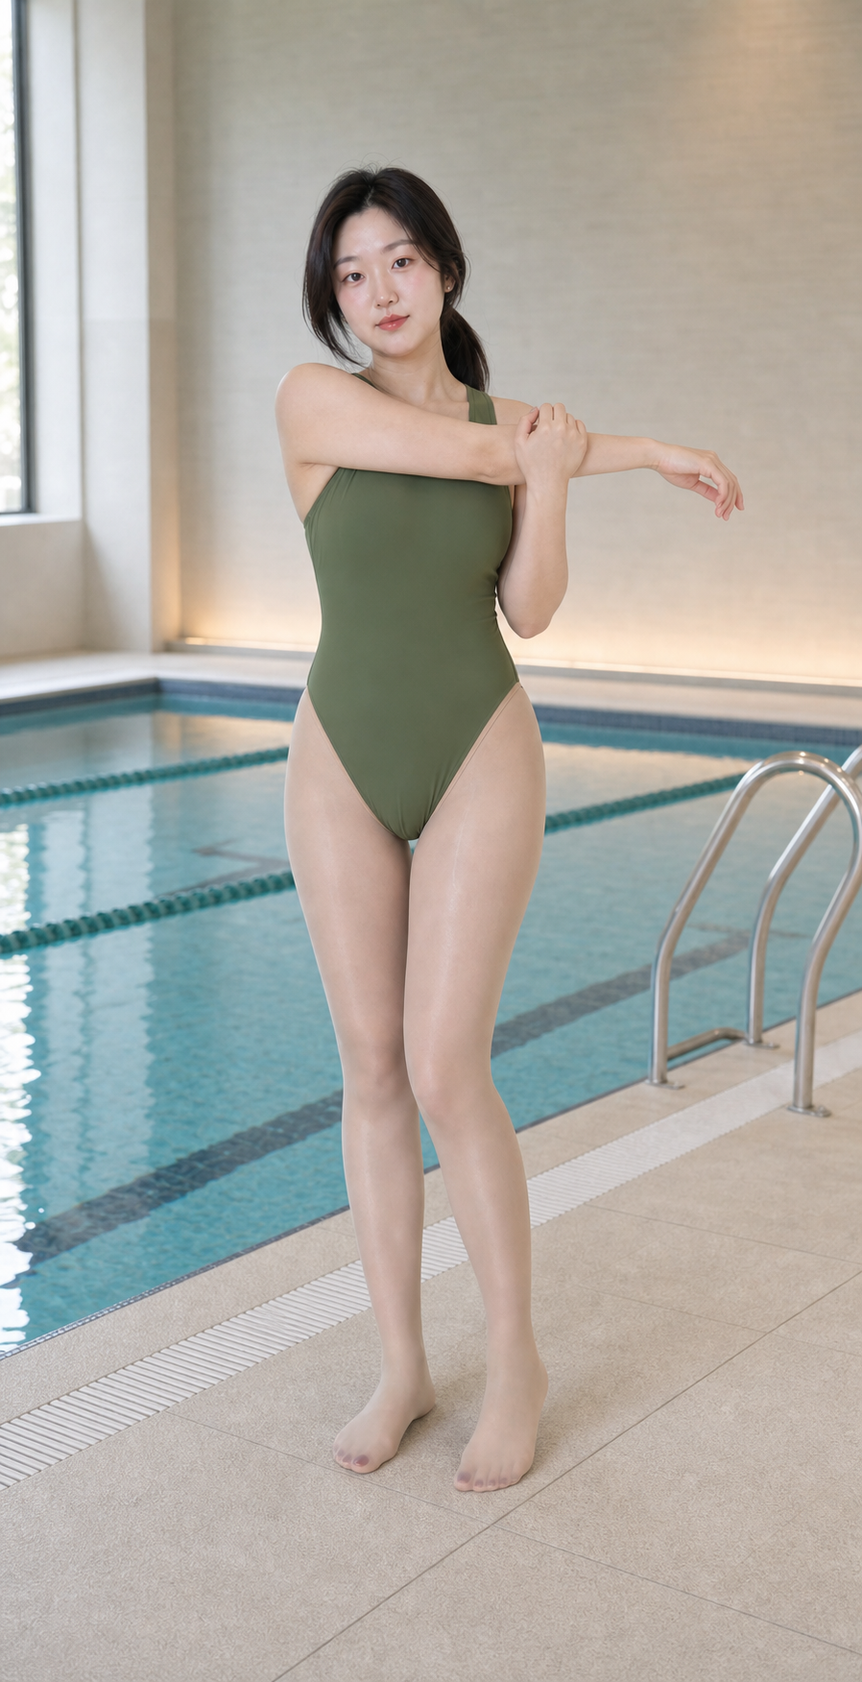
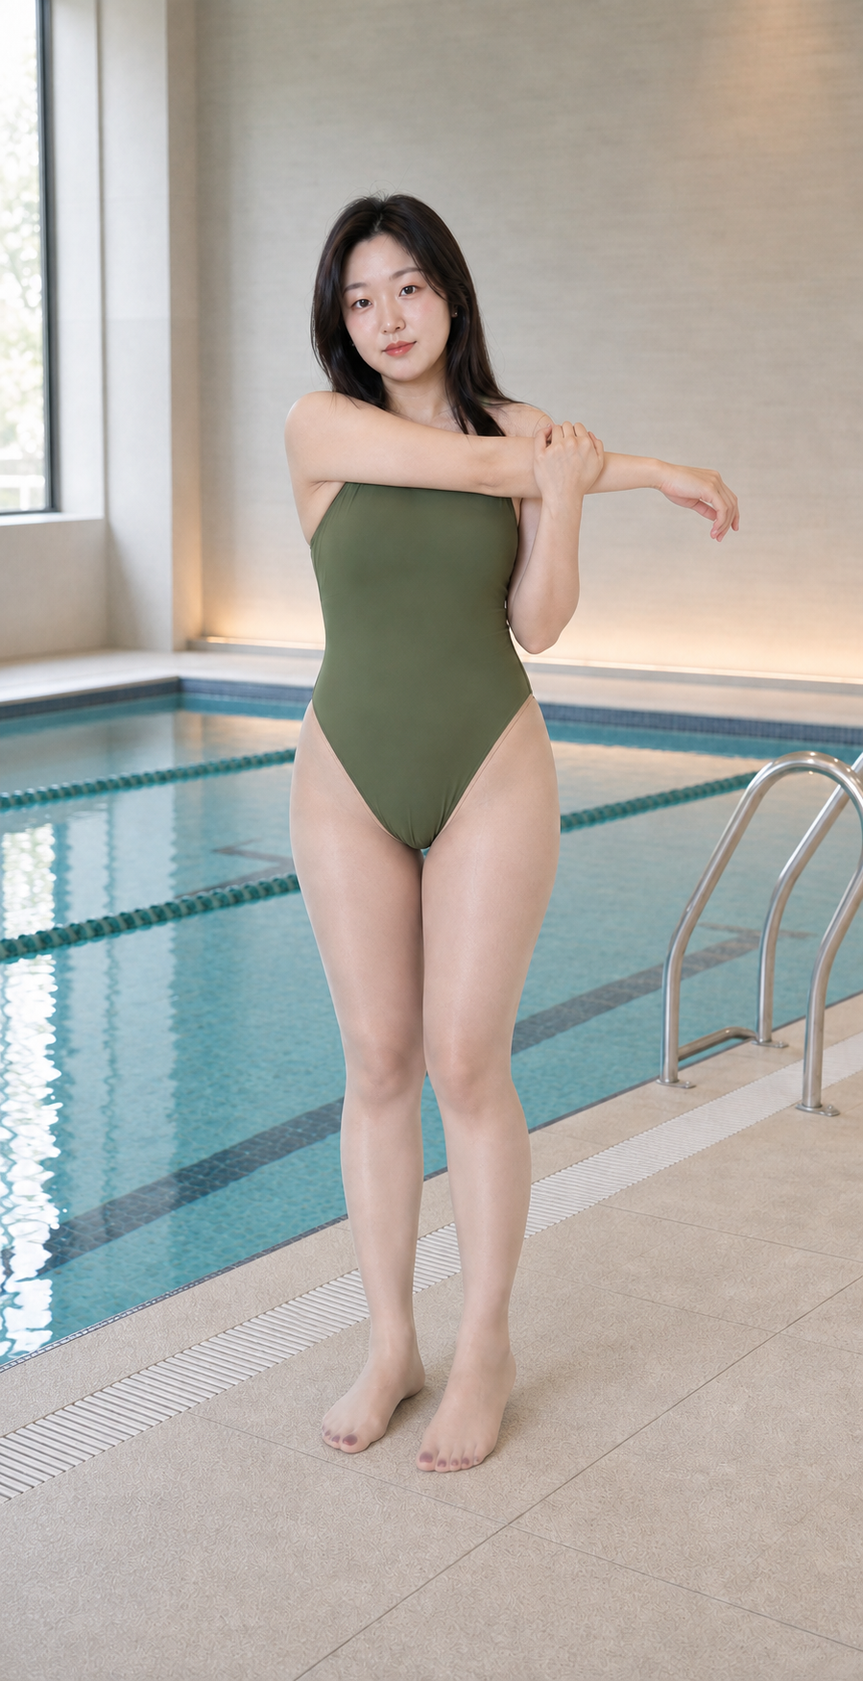
Update hosiery asset plan and QA documentation; refine visual templates and add new assets
- Revised asset plan for female lead hosiery, emphasizing body proportions and material specifications.
- Enhanced QA criteria to include strict adherence to character proportions and foot dimensions.
- Added multiple new visual assets for various hosiery styles, including detailed specifications for each.
- Introduced rejected assets for quality control, documenting issues related to proportion drift and unnatural poses.
- Updated existing visual assets to align with the latest design standards and character references.

Changed region(s): [[0.0, 0.0, 1.0, 0.8949], [0.343, 0.9874, 0.3742, 1.0]]

diff --git a/assets/female-lead/hosiery/README.md b/assets/female-lead/hosiery/README.md
@@ -4,7 +4,7 @@
 
 ## 当前状态
 
-当前已有 24 张通过确认或 QA 的视觉模板。目录保持精简，规则由四个入口文件管理，正式图片集中放入 `visuals/`：
+当前已有 33 张通过确认或 QA 的视觉模板。目录保持精简，规则由四个入口文件管理，正式图片集中放入 `visuals/`：
 
 - `README.md`：本入口、属性体系、参考图使用方法和登记规则。
 - `asset-plan.md`：后续视觉模板与鞋履适配生成清单。
@@ -37,7 +37,7 @@
 - 颜色：`white`、`nude`、`gray`、`black`。
 - 材质：`velvet-matte`、`pearl`、`satin`、`oil-gloss`、`wool`。
 - 花纹：默认 `plain`；新花纹必须先在 `asset-plan.md` 登记。
-- 标准视角：`front`、`top-three-quarter`、`medial-side`、`lateral-side`、`sole`。
+- 标准视角：`front`、`front-three-quarter`、`back`、`top-three-quarter`、`medial-side`、`lateral-side`、`sole`。
 - 标准姿势：`standing-neutral`、`half-squat`、`deep-squat`、`heel-lift`、`leg-cross-bend`。
 
 不要求机械生成全部属性组合。先完成当前需要的有效组合，并拒绝物理冲突，例如极薄羊毛、完全不透光的 10D 或失去纺织纹理的油亮表面。
@@ -95,7 +95,10 @@ hosiery-{color}-{denier}d-{material}-{pattern}-{shoe-or-none}-{view}-{pose}-vNN.
 
 | 文件 | 状态 | 规格 | 视角与姿势 | 来源 | 推荐用途 | 已知限制 |
 | --- | --- | --- | --- | --- | --- | --- |
-| `visuals/hosiery-nude-15d-velvet-matte-plain-none-front-standing-neutral-v01.png` | `approved`，2026-08-31 | 肉色 15D、天鹅绒哑光、无花纹、完整包脚、无鞋 | 正面全身站立，下肢近中性受力 | 用户提供的既有合格图；原生成提示词与模型参数未登记 | 锁定全腿透肤度、肉色色调、哑光织物感，以及腿部—脚踝—脚趾整体连续性；可作为露趾服装图的全腿材质参考 | 898 × 1752，低于专项模板建议的 2048 px 长边；脚部占比偏小，不作为唯一袜头微距结构参考；绿色泳装、泳池背景、发型与伸展动作不具约束力 |
+| `visuals/hosiery-nude-15d-velvet-matte-plain-none-front-standing-neutral-v01.png` | `approved`，2026-09-03，比例复核后重做 | 肉色 15D、天鹅绒哑光、无花纹、完整包脚、无鞋 | 正面全身站立，下肢近中性受力 | 内置 ImageGen 精确重生成；`MAT-N15-L01-P2`；旧正式图只约束泳池场景、绿色泳装与 15D 材质方向，女主身体转面锁定比例、核心图锁定身份；完整加入三段脚趾/足底硬锁 | 锁定女主正确身型下的全腿透肤度、肉色色调、哑光织物感，以及腿部—脚踝—脚趾整体连续性；同时列入 `LOOK-SWIM-GREEN-POOL-V1` 固定参考集 | 原生 899 × 1750，低于 2048 px 长边建议；绿色泳装与泳池背景仅在明确调用固定参考集时具约束力，上肢伸展动作不固定；袜头微距仍以 BASE-C01/C02 为准；旧版因高挑纤细身型及脚部偏小已移入 `rejected/` |
+| `visuals/hosiery-nude-15d-velvet-matte-plain-none-front-three-quarter-standing-neutral-v01.png` | `approved`，2026-09-03，QA 通过 | 肉色 15D、天鹅绒哑光、无花纹、完整包脚、无鞋 | 前侧约 45°全身中性站立 | 内置 ImageGen；`MAT-N15-L02-P1`；新版 MAT-N15-L01 锁定修正后的身型、15D 材质与泳池场景，身体转面锁定比例，核心图锁定身份；完整加入三段脚趾/足底硬锁 | 补充前侧 45°下的女主身体、腿脚比例与 15D 袜面连续性；同时作为 `LOOK-SWIM-GREEN-POOL-V1` 默认人物与场景参考 | 原生 899 × 1749，低于 2048 px 长边建议；脚部结构微距仍以 BASE-C01/C02 为准；未明确调用固定参考集时，绿色泳装与泳池背景不约束其他项目 |
+| `visuals/hosiery-nude-15d-velvet-matte-plain-none-back-standing-neutral-v01.png` | `approved`，2026-09-03，QA 通过 | 肉色 15D、天鹅绒哑光、无花纹、完整包脚、无鞋 | 正背面全身中性站立，双脚平整承重 | 内置 ImageGen；`MAT-N15-L03-P1`；新版 MAT-N15-L01 锁定身型、材质与场景，MAT-N15-L02 辅助跨视角一致性，身体转面锁定背部比例；完整加入三段脚趾/足底硬锁 | 锁定背部、腰臀—大腿—膝—小腿—跟腱—足跟比例及 15D 后侧材质连续性；同时列入 `LOOK-SWIM-GREEN-POOL-V1` 固定参考集 | 原生 899 × 1748，低于 2048 px 长边建议；正背面看不到背侧甲板，因此正确地不显示甲油；不替代正面袜头或纯足底模板 |
+| `visuals/hosiery-nude-15d-velvet-matte-plain-none-front-three-quarter-deep-squat-v01.png` | `approved`，2026-09-03，用户指出累积光斑后从干净参考重生成并 QA 通过 | 肉色 15D、天鹅绒哑光、无花纹、完整包脚、无鞋 | 前侧约 45°严格全蹲，双脚全掌着地，前臂自然搭在大腿且双手松弛交叠 | 内置 ImageGen 单次重生成；`MAT-N15-P02-P6`；MAT-N15-L02 锁定干净人物、15D 材质、泳装、场景与均匀光照，身体转面锁定比例，BASE-C01 只锁定统一包趾袜膜与隔袜甲油；未使用多次编辑结果作为输入；完整加入三段脚趾/足底硬锁 | 检查女主固定比例在全蹲压缩下的稳定性、自然上肢支撑、全身统一无斑驳光照，以及大腿—膝—小腿—前踝—脚背—趾端的 15D 材质连续性；同时列入 `LOOK-SWIM-GREEN-POOL-V1` 固定参考集 | 原生 899 × 1748，低于 2048 px 长边建议；面部、上肢、躯干、双腿和丝袜无块状光斑、局部蒙版边界或泳池焦散投影；脚趾由连续薄袜膜覆盖、隔袜暗红甲油可辨；旧累积编辑版已移入 `rejected/` |
 | `visuals/hosiery-nude-30d-velvet-matte-plain-none-front-standing-neutral-v01.png` | `approved`，2026-08-31，用户确认 | 肉色 30D、天鹅绒哑光、无花纹、完整包脚、无鞋 | 下半身正面中性站立，双脚完整入镜 | 内置 ImageGen；`BASE-L01-P1`；参考女主核心身份、身体正面比例与既有 15D 合格材质模板；完整加入两段脚趾硬锁 | 锁定 30D 正面全腿材质密度，以及大腿—膝—小腿—脚踝—脚背—脚趾连续性 | 原生 899 × 1750，低于 2048 px 长边建议；无脸部，不可单独承担身份参考；不替代袜头微距结构特写 |
 | `visuals/hosiery-nude-30d-velvet-matte-plain-none-top-three-quarter-standing-neutral-v01.png` | `approved`，2026-08-31，QA 通过 | 肉色 30D、天鹅绒哑光、无花纹、完整包脚、无鞋 | 下半身高机位三分之四中性站立，双脚前后轻微错位 | 内置 ImageGen；`BASE-L02-P1`；参考女主核心身份、身体比例与已批准 BASE-L01；完整加入两段脚趾硬锁 | 后续服装生成的主要 30D 全腿材质参考；补充高机位下脚踝—脚背—袜头连续性 | 原生 899 × 1749，低于 2048 px 长边建议；无脸部，不可单独承担身份参考；后脚部分脚趾受三分之四透视自然遮挡，不替代正面或袜头微距模板 |
 | `visuals/hosiery-nude-30d-velvet-matte-plain-none-front-standing-neutral-toe-closeup-v01.png` | `approved`，2026-09-01，QA 通过 | 肉色 30D、天鹅绒哑光、无花纹、完整包脚、无鞋 | 膝下至双脚正面中性站立结构特写 | 内置 ImageGen 精确编辑；`BASE-C01-P3`；以已批准 BASE-L01 为唯一编辑目标；完整加入两段脚趾硬锁 | 检查无袜头横线、连续趾间浅弧、十枚隔袜酒红甲油与小腿—脚踝—趾端微织纹连续性 | 原生 900 × 1747，低于 2048 px 长边建议；无脸部，不承担身份参考；用于正面结构，不替代高位三分之四、外侧或足底模板 |
@@ -119,5 +122,10 @@ hosiery-{color}-{denier}d-{material}-{pattern}-{shoe-or-none}-{view}-{pose}-vNN.
 | `visuals/shoe-single-band-ankle-strap-15mm-low-block-heel-sandal-multiview-v01.png` | `approved`，2026-09-02，用户确认样式后鞋型 QA 通过 | 低饱和裸粉色、方圆头、单条前掌一字带、完整细踝带、两侧斜向后跟支撑、外侧小扣具、露趾、开放后跟、4–5 mm 前掌底、独立 15 mm 微方跟 | 同一只右脚凉鞋的高位三分之四、严格外侧、低位正面和大底四视角 | 内置 ImageGen 精确编辑；`FW-S04-M-P2`；以旧 P1 四格图为布局与摄影语言编辑目标，统一重建收腰鞋床与独立低跟；本项无脚、无女主、无丝袜，不加入脚趾硬锁 | 人工核对一字带、踝带闭环、斜向支撑带、外侧扣具、收腰鞋床、前掌—足弓—微方跟层次和四视角鞋型一致性；为新版 S04 穿着适配图定义鞋型 | 原生 1402 × 1122，低于 2048 px 长边建议；为多格总览，只供人工检查，提交生成模型时应裁出与目标机位相同的单一视角；旧直板平底 P1 已移入 `rejected/`，禁止作为正向参考 |
 | `visuals/hosiery-nude-30d-velvet-matte-plain-single-band-ankle-strap-15mm-low-block-heel-sandal-front-standing-neutral-v01.png` | `approved`，2026-09-02，QA 通过 | 肉色 30D 天鹅绒哑光完整包脚连裤袜；低饱和裸粉色方圆头一字带踝带凉鞋、4–5 mm 前掌底、独立 15 mm 微方跟 | 膝下至双脚正面中性站立结构特写 | 内置 ImageGen 精确编辑；`FW-S04-F-P1`；以已批准 BASE-C01 为编辑目标，裁取 FW-S04-M 低位正面单视角只约束鞋型；完整加入三段脚趾/足底硬锁、踝带上下材质连续性与低跟站姿规则 | 检查正面十趾连续袜面、十枚隔袜甲油、一字带和方圆鞋头、踝带上下 30D 材质连续性、双脚入鞋及低跟平衡 | 原生 900 × 1748，低于 2048 px 长边建议；无脸部且为膝下结构特写，不承担身份或全腿比例参考；正面机位不充分展示收腰鞋床和独立微方跟，需由高位三分之四与外侧模板补充 |
 | `visuals/hosiery-nude-30d-velvet-matte-plain-single-band-ankle-strap-15mm-low-block-heel-sandal-top-three-quarter-standing-neutral-v01.png` | `approved`，2026-09-02，用户指出张力曲线不足后重做并 QA 通过 | 肉色 30D 天鹅绒哑光完整包脚连裤袜；低饱和裸粉色方圆头一字带踝带凉鞋、4–5 mm 前掌底、独立 15 mm 微方跟 | 下半身高位三分之四中性站立，双脚前后轻微错位 | 内置 ImageGen 精确编辑；`FW-S04-T-P8`；以修正低跟后的构图为基础，引用 BASE-C01 的统一包趾袜膜结构，仅重建暴露趾端，消除逐趾纵向深沟并保留四处短浅凹弧；完整加入三段脚趾/足底硬锁 | 检查高机位下前脚统一袜膜、四处短浅趾间张力过渡、隔袜甲油、踝带上下 30D 连续性、收腰鞋床、斜向支撑和独立低跟结构 | 原生 902 × 1743，低于 2048 px 长边建议；无脸部，不承担身份参考；后脚部分背侧甲板受三分之四透视自然遮挡，不替代正面十趾或严格外侧跟高模板；缺少趾间张力曲线的旧 P2 已移入 `rejected/` |
+| `visuals/hosiery-nude-30d-velvet-matte-plain-single-band-ankle-strap-15mm-low-block-heel-sandal-lateral-side-standing-neutral-v01.png` | `approved`，2026-09-02，QA 通过 | 肉色 30D 天鹅绒哑光完整包脚连裤袜；低饱和裸粉色方圆头一字带踝带凉鞋、4–5 mm 前掌底、独立 15 mm 微方跟 | 单脚外侧三分之四中性站立结构特写 | 内置 ImageGen 精确编辑；`FW-S04-L-P2`；以已批准 BASE-C03 为编辑目标，裁取 FW-S04-M 严格外侧单视角只约束鞋型；完整加入三段脚趾/足底硬锁、恰好五趾、踝带上下材质连续性与低跟站姿规则 | 检查单脚恰好五趾、连续包趾袜膜、五枚隔袜甲油、小脚趾外侧、踝带压迫、外侧扣具、脚跟入鞋、收腰鞋床与独立微方跟侧面层次 | 原生 899 × 1748，低于 2048 px 长边建议；无脸部且为单脚模板，不承担身份、双脚站姿、正面十趾或足底参考；背侧甲板受外侧透视自然遮挡；P1 在输出阶段被安全系统拦截且未保存候选 |
+| `visuals/hosiery-nude-30d-velvet-matte-plain-single-band-ankle-strap-15mm-low-block-heel-sandal-lateral-side-half-squat-v01.png` | `approved`，2026-09-02，QA 通过 | 肉色 30D 天鹅绒哑光完整包脚连裤袜；低饱和裸粉色方圆头一字带踝带凉鞋、4–5 mm 前掌底、独立 15 mm 微方跟 | 严格侧视半蹲，近侧单腿完整可见、远侧腿自然完全遮挡 | 内置 ImageGen 精确编辑；`FW-S04-Q-P1`；以已批准 FW-S02-Q 为编辑目标，只替换为 FW-S04-L 已通过的凉鞋结构并适配 15 mm 低跟；完整加入三段脚趾/足底硬锁与半蹲平顺褶皱规则 | 检查半蹲时单腿受力、五趾连续袜膜、隔袜甲油、踝带上下材质连续、前后踝与膝部平顺，以及前掌底和独立微方跟同时着地 | 原生 1024 × 1536，低于 2048 px 长边建议；无脸部且为单腿侧面受力模板，不承担身份、双脚站姿、正面十趾或足底参考；脚趾背侧甲板受侧面透视自然压缩 |
+| `visuals/shoe-rounded-point-open-toe-single-band-5cm-slim-heel-mule-multiview-v01.png` | `approved`，2026-09-03，用户按视觉效果指定采用 P1 | 浅粉色、圆润尖头式鞋床前端、露趾、前掌单带中央收窄并向两端渐宽、大面积开放脚背、全开放后跟、4–5 mm 前掌底、独立约 5 cm 细跟 | 同一只右脚穆勒鞋的高位三分之四、严格外侧、低位正面和大底四视角 | 内置 ImageGen；`FW-S06-M-P1`；以 FW-S04-M 只约束四格布局与棚拍语言，重新构建 S06 鞋型；依据最终选定成图的视觉比例将跟高登记为约 5 cm；本项无脚、无女主、无丝袜，不加入脚趾硬锁 | 人工核对圆润收尖前端、单带中央窄两端宽、完整露趾口、开放脚背与后跟、薄前掌底、鞋床坡度、约 5 cm 细跟和四视角一致性；为 S06 穿着适配图定义鞋型 | 原生 1402 × 1122，低于 2048 px 长边建议；为多格总览，只供人工检查，提交生成模型时应裁出与目标机位相同的单一视角；P2、P3 均不再采用且未入库 |
+| `visuals/hosiery-nude-30d-velvet-matte-plain-rounded-point-open-toe-single-band-5cm-slim-heel-mule-front-standing-neutral-v01.png` | `approved`，2026-09-03，趾间结构定向修复后 QA 通过 | 肉色 30D 天鹅绒哑光完整包脚连裤袜；浅粉色圆润尖头式单带露趾穆勒鞋、4–5 mm 前掌底、独立约 5 cm 细跟 | 膝下至双脚正面中性站立结构特写 | 内置 ImageGen 精确编辑；`FW-S06-F-P3`；以 BASE-C01 为初始编辑目标，裁取 FW-S06-M 低位正面单视角约束鞋型，再以 FW-S04-F 约束清楚五趾与统一袜膜的平衡，仅缩短软化鞋带前方八处趾间过渡；完整加入三段脚趾/足底硬锁 | 检查正面十趾、十枚隔袜甲油、连续包趾袜膜、单带中央窄两端宽、圆润收尖鞋头、双脚入鞋位置及约 5 cm 跟姿 | 原生 902 × 1743，低于 2048 px 长边建议；无脸部且为膝下结构特写，不承担身份或严格侧面跟高参考；P1 深纵沟、P2 趾形融合过度，均未入库 |
+| `visuals/hosiery-nude-30d-velvet-matte-plain-rounded-point-open-toe-single-band-5cm-slim-heel-mule-top-three-quarter-standing-neutral-v01.png` | `approved`，2026-09-03，QA 通过 | 肉色 30D 天鹅绒哑光完整包脚连裤袜；浅粉色圆润尖头式单带露趾穆勒鞋、4–5 mm 前掌底、独立约 5 cm 细跟 | 下半身高位三分之四中性站立，双脚前后轻微错位 | 内置 ImageGen 精确编辑；`FW-S06-T-P1`；以 BASE-L02 为编辑目标，裁取 FW-S06-M 高位三分之四单视角约束鞋型，并以 FW-S06-F 补充穿着后的袜面、甲油与鞋脚接触；完整加入三段脚趾/足底硬锁 | 检查高位机位下前后脚各五趾、隔袜甲油、趾间短浅过渡、单带中央窄两端宽、开放后跟、双脚入鞋位置与约 5 cm 细跟姿态 | 原生 899 × 1748，低于 2048 px 长边建议；无脸部，不承担身份、正面十趾等距对比或严格侧面跟高参考；后脚受透视缩小但五枚背侧甲油仍可辨 |
 
 后续每项至少记录：文件路径、状态、颜色、厚度、材质、花纹、鞋型、视角、姿势、生成提示词版本、输入参考、QA 日期、推荐用途和已知限制。

diff --git a/assets/female-lead/fixed-reference-sets.md b/assets/female-lead/fixed-reference-sets.md
@@ -1,0 +1,29 @@
+# 女主固定参考集
+
+本文件只登记用户明确确认、允许跨视频复用的固定造型与场景。它不替代 `core/` 的身份和身体比例基准，也不复制专项资产图片；表中路径是唯一正式原图来源。
+
+## LOOK-SWIM-GREEN-POOL-V1｜绿色泳装与室内泳池
+
+状态：`approved`，2026-09-03，用户确认整组加入固定资产。
+
+固定内容：
+
+- 同一女主，橄榄绿色简洁连体泳装。
+- 明亮整洁的室内泳池与浅灰米色池岸，柔和均匀自然光。
+- 肉色约 15D、天鹅绒哑光、无花纹、完整包脚连裤丝袜。
+- 自然饱满的固定身体比例及与小腿、身高匹配的正常足长和足宽。
+
+| 正式原图 | 主要职责 | 使用边界 |
+| --- | --- | --- |
+| `hosiery/visuals/hosiery-nude-15d-velvet-matte-plain-none-front-standing-neutral-v01.png` | 正面全身、泳装正面剪裁、泳池场景、15D 全腿材质 | 上肢伸展动作不固定；身份仍以核心定妆为最高基准 |
+| `hosiery/visuals/hosiery-nude-15d-velvet-matte-plain-none-front-three-quarter-standing-neutral-v01.png` | 前侧约 45°全身轮廓、泳装侧前方贴合、干净均匀光照 | 作为本组默认人物与场景参考；袜头微距仍使用 BASE-C01/C02 |
+| `hosiery/visuals/hosiery-nude-15d-velvet-matte-plain-none-back-standing-neutral-v01.png` | 正背面全身、泳装背面剪裁、腰臀—腿部背侧比例 | 不承担正面脸部、脚趾甲油或袜头结构参考 |
+| `hosiery/visuals/hosiery-nude-15d-velvet-matte-plain-none-front-three-quarter-deep-squat-v01.png` | 前侧约 45°完全蹲下、自然上肢支撑、落跟受力、统一无斑驳光照 | 使用单次干净重生成的 P6；禁止引用同名失败版或 `rejected/` 中的累积编辑图 |
+
+## 调用规则
+
+1. 具体视频需要这套造型时，在工程 README 中写明 `LOOK-SWIM-GREEN-POOL-V1`，并按目标视角选一张主参考；只有跨视角一致性确有需要时再补第二张。
+2. 人物身份始终以 `core/female-lead-key-art-fresh-v1.png` 为最高基准，身体比例始终以 `core/female-lead-body-turnaround-v1.png` 为最高基准；本组图片负责泳装、泳池环境、15D 丝袜和对应视角。
+3. 脚趾可见的图片、关键帧或视频提示词，必须读取并逐字加入 `hosiery/closed-foot-pantyhose-toe-lock.md` 的三段英文硬锁，并按 `hosiery/qa.md` 验收。
+4. 未明确调用本参考集的项目，不应被绿色泳装或泳池背景自动约束。
+5. `hosiery/rejected/` 只供人工识错，任何情况下都不得作为正向参考。

diff --git a/assets/female-lead/README.md b/assets/female-lead/README.md
@@ -1,11 +1,12 @@
 # 女主角资产
 
-女主角全局资产只保留“核心基础资产”和“丝袜专项资产”。服装造型、运动、职场、外出和其他剧情场景不再作为全局女主资产保存。
+女主角全局资产以“核心基础资产”和“丝袜专项资产”为主体。经用户明确确认、需要跨多个视频复用的造型可登记为固定参考集；固定参考集只建立索引并引用现有正式原图，不复制图片。
 
 ## 路径
 
 - `core/`：唯一的基础资产入口，集中保存核心定妆、脸部与头部身份、身体多视角、表情与动作，共 6 张图片及其对应提示词。
 - `hosiery/`：丝袜结构、材质、鞋履适配、生成硬锁与 QA 规范。
+- `fixed-reference-sets.md`：用户明确确认的跨项目固定造型与场景参考集；图片仍由其原始专项目录维护。
 - `character-bible.md`：女主长期角色设定；不充当图片参考。
 
 ## 使用顺序
@@ -14,8 +15,9 @@
 2. 始终以 `core/female-lead-key-art-fresh-v1.png` 作为人物身份最高基准。
 3. 根据任务从 `core/` 最多补充一至两张脸部、身体或表情参考，不要默认加载全部 6 张。
 4. 服装、场景和镜头连续性由具体 `products/<视频工程>/README.md`、本片文档和本片关键帧决定。
-5. 涉及丝袜时，额外从 `hosiery/README.md` 进入并执行其硬锁与验收规则。
+5. 需要复用已确认造型时，读取 `fixed-reference-sets.md`，按参考集职责选择最少图片。
+6. 涉及丝袜时，额外从 `hosiery/README.md` 进入并执行其硬锁与验收规则。
 
 ## 资产边界
 
-当前不设全局 `outfits/`、`sports/`、`workplace/` 或 `outings/`。今后只有经过明确确认、确实需要跨多个视频复用的图片，才能重新加入女主全局资产。
+当前不设重复图片目录形式的全局 `outfits/`、`sports/`、`workplace/` 或 `outings/`。只有经过用户明确确认、确实需要跨多个视频复用的图片，才能加入 `fixed-reference-sets.md`；原图保持单一来源，后续替换时同步更新其专项 QA 记录。

diff --git a/assets/female-lead/hosiery/qa.md b/assets/female-lead/hosiery/qa.md
@@ -36,6 +36,8 @@
 ## D｜解剖与鞋履
 
 - 左右脚与身体连接正确，脚趾数量和关节合理。
+- 角色比例必须以 `../core/female-lead-body-turnaround-v1.png` 为准：大腿自然饱满，膝位正常，小腿有适度肌肉体积并向脚踝自然收窄；不得变成长腿时装模特式的过度纤细身型。
+- 足长、足宽必须与女主小腿、脚踝和整体身高匹配；禁止小脚、超长脚、过窄脚，或因广角和高机位产生无法由正常透视解释的比例漂移。
 - 无多余脚、空鞋、鞋脚分离、脚穿出鞋底或错误受力。
 - 鞋面、鞋口、鞋底、鞋跟和带扣符合目标鞋型。
 - 鞋口阴影和鞋底边缘不得冒充袜头连接线。
@@ -82,6 +84,7 @@
 - `wrinkle-physics`：褶皱与厚度或受力不符。
 - `ankle-slack`：站立、提踵/跖屈或半蹲时脚踝任一区域出现可辨认的织物褶皱，或全蹲时前踝超过 2–3 条极细浅纹，或任一下蹲/背屈姿势的跟腱—后踝出现横褶、堆叠、袋状松弛或袜面离体。
 - `anatomy`：脚趾数量、脚型或身体连接错误。
+- `proportion-drift`：大腿、小腿、脚踝或足部尺寸偏离女主身体转面，出现过长、过细、过小或无法由正常透视解释的比例变化。
 - `identity-drift`：参考图改变女主身份或身体比例。
 - `reference-conflict`：图片混入冲突材质、场景或多格结构，不适合作为正向参考。
 
